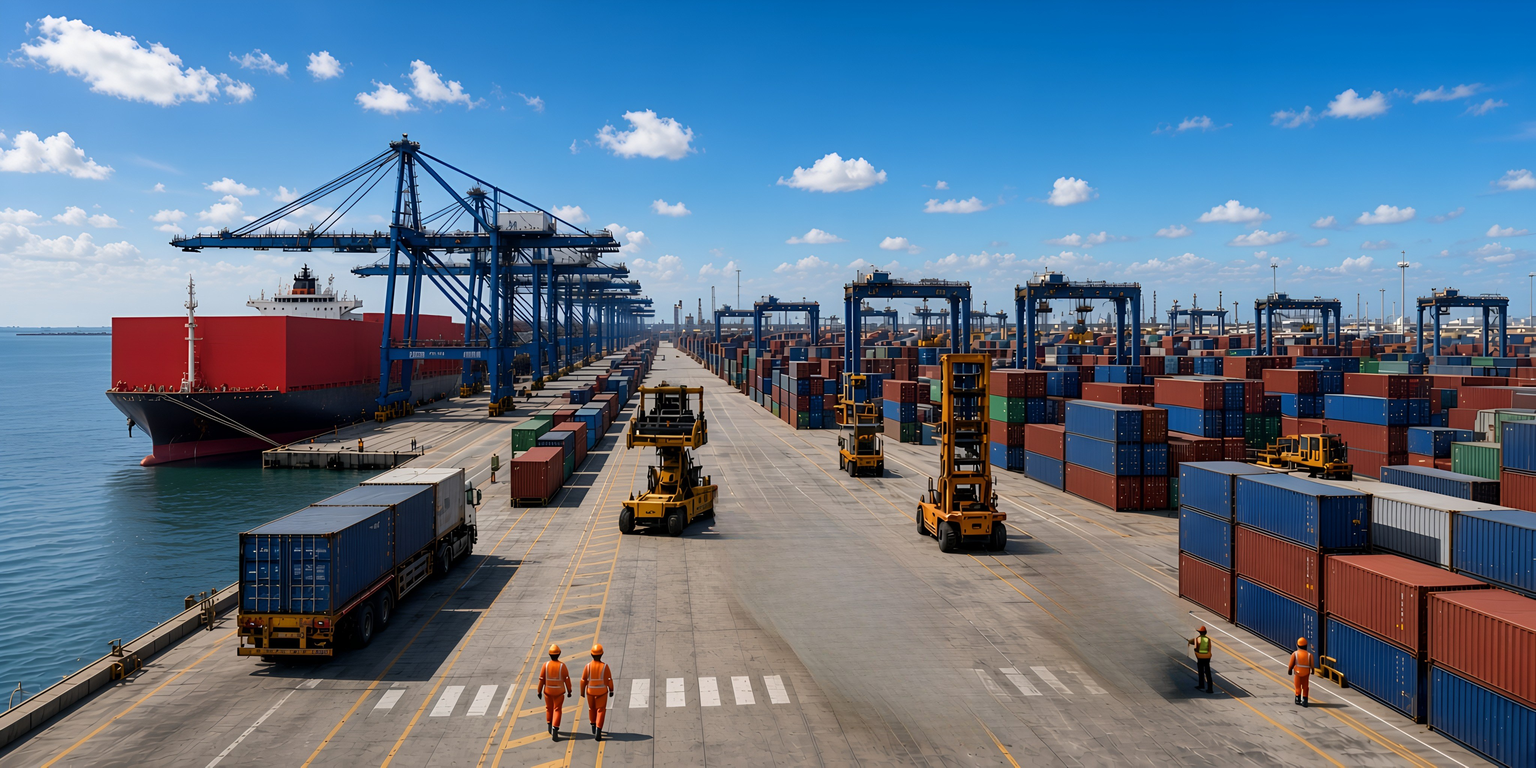
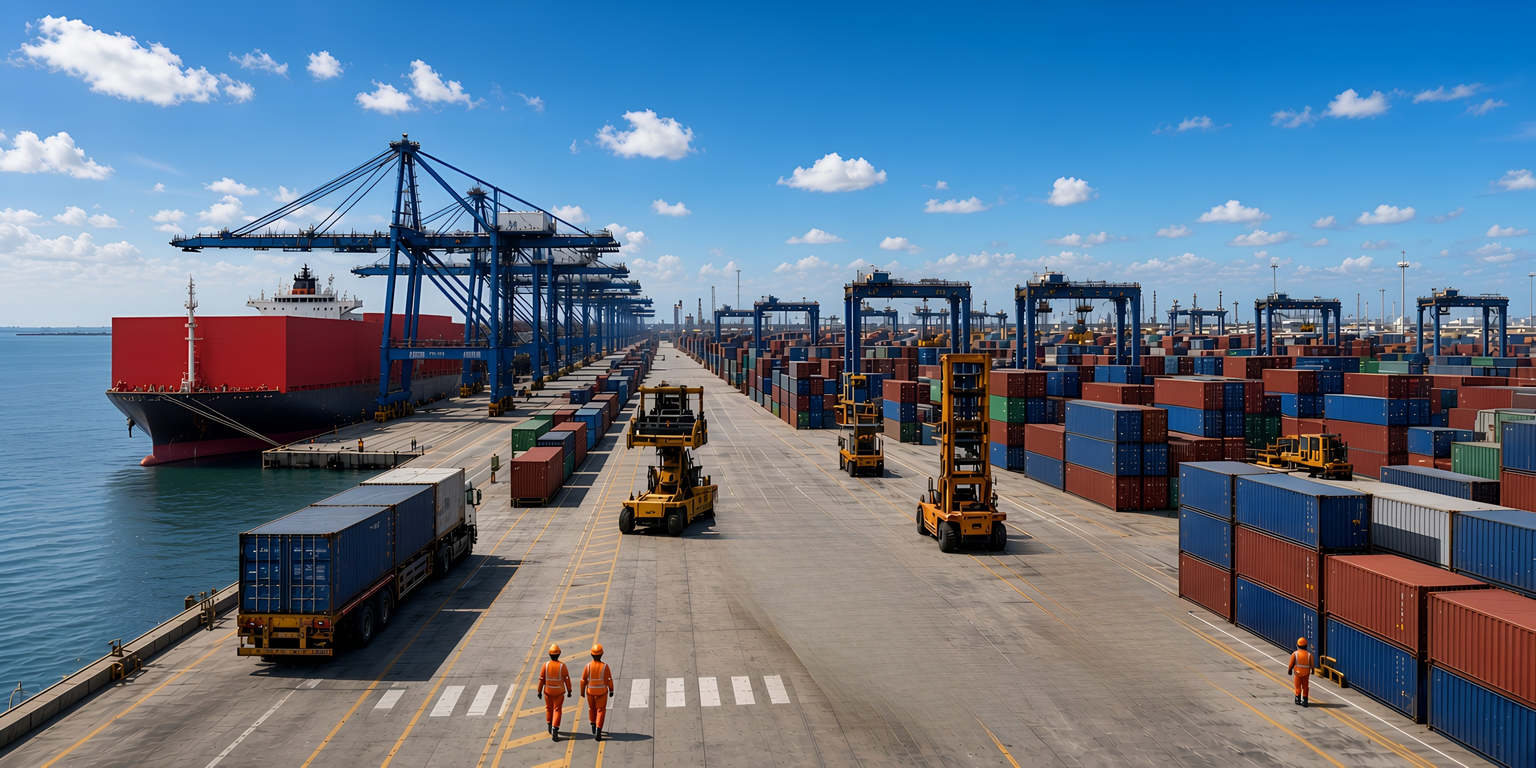
Portal desktop: pelat latar lebih bersih, truk 20% lebih lambat
Pekerja di samping truk, sisa bayangan, dan garis penyeberangan pudar
dihapus dari pelat agar tidak tampak seperti bekas hapusan.

Claude-Session: https://claude.ai/code/session_01K3XkQz7sMXaHewP9hwhwuv

Changed region(s): [[0.625, 0.7812, 0.8125, 0.9375], [0.6562, 0.6875, 0.6875, 0.75]]

diff --git a/public/js/portal-parallax.js b/public/js/portal-parallax.js
@@ -116,7 +116,7 @@ void main(){
     // truk: empat truk bergantian di lajur tengah, yang lebih dekat digambar di atas
     vec4 lap = vec4(0.0); float sAtas = 0.0, gelap = 0.0;
     for (int i = 0; i < 4; i++) {
-      float s, b; float fase = fract(uTime / 52.0 + float(i) / 4.0);
+      float s, b; float fase = fract(uTime / 65.0 + float(i) / 4.0);
       vec3 cat = i == 0 ? vec3(1.0) : i == 1 ? vec3(0.30, 0.47, 0.80) : i == 2 ? vec3(0.78, 0.36, 0.30) : vec3(0.36, 0.62, 0.50);
       vec4 c = truk(px, fase, cat, s, b); gelap = max(gelap, b);
       lap = s > sAtas ? c + lap * (1.0 - c.a) : lap + c * (1.0 - lap.a);
